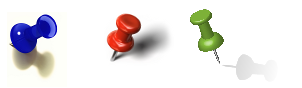
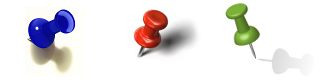
free elements from ccs hard layout

Changed region(s): [[0.0298, 0.1, 0.2384, 0.925], [0.3278, 0.1, 0.596, 0.725], [0.6258, 0.025, 0.894, 0.925]]

diff --git a/flightpin_proj/www/stylesheets/main.css b/flightpin_proj/www/stylesheets/main.css
@@ -56,13 +56,14 @@ table {
 }
 
 
-body { font-family: font-family: 'Droid Sans', sans-serif; font-size: 14pt; text-align: center;
+body { font-family: font-family: 'Droid Sans', sans-serif; font-size: 14pt;
        background-color: #fff;
-       margin-top: 200px;
+       margin-top: 55px;
        width: 100%;
-       margin: 0;
        padding: 0;
      }
+
+/*div { border: 2px solid gray;}*/
 
 /* font styling */
 
@@ -71,10 +72,11 @@ body { font-family: font-family: 'Droid Sans', sans-serif; font-size: 14pt; text
 .onewaylabel {font-family: font-family: 'Droid Sans', sans-serif; font-size: 10pt; text-align: left;}
 
 /* Alignment and Layout*/
-.halves {width: 50%;}
+.halves {width: 600px; height:400px;}
 .one {text-align: right; left:0px; margin-top: 10px; margin-bottom: 5px;}
 
 #mycontainer {width: 100%;}
-#footer {width: 100%;}
-#logo {right:10px;}
-#map_canvas {width: 100%; height: 100%;}
+#footer {width: 100%;clear: both;}
+#pins {margin-top: 20px; position:absolute;}
+#logo { margin-top: 20px; position:absolute;}
+#map_canvas {width: 600px; height: 400px; left:50px;}

diff --git a/flightpin_proj/flightpin.py b/flightpin_proj/flightpin.py
@@ -59,7 +59,7 @@ class MainPage(webapp.RequestHandler):
             });\n''')
     self.response.out.write('</script>\n')
 
-    self.response.out.write('''<script type="text/javascript" src="http://maps.googleapis.com/maps/api/js?sensor=false">
+    self.response.out.write('''<script type="text/javascript" src="http://maps.googleapis.com/maps/api/js?sensor=true">
 </script>\n''')
     self.response.out.write('''
 <script type="text/javascript">
@@ -79,7 +79,7 @@ class MainPage(webapp.RequestHandler):
     self.response.out.write('<link href="www/stylesheets/calendar.css" rel="stylesheet" type="text/css" />\n')
     self.response.out.write('<link href="www/stylesheets/main.css" rel="stylesheet" type="text/css" />\n')
     self.response.out.write('<link href="http://fonts.googleapis.com/css?family=Droid+Sans" rel="stylesheet" type="text/css">\n')
-    self.response.out.write('</head><body onload="initialize()>\n')
+    self.response.out.write('</head><body onload="initialize()">\n')
 
     #greetings = db.GqlQuery("SELECT * "
      #                       "FROM Flight "
@@ -95,18 +95,17 @@ class MainPage(webapp.RequestHandler):
 
 
     self.response.out.write('<div id="mycontainer">\n')
-    self.response.out.write('<div id="lhs" class="halves">\n')
-    self.response.out.write(' <div id="map_canvas">\n')
-    self.response.out.write('</div><!-- map_canvas -->\n')
-    self.response.out.write('Google map\n')
-    self.response.out.write('</div><!-- lhs -->\n')
+    self.response.out.write('  <div id="lhs" class="halves" style="float:left">\n')
+    self.response.out.write('   <div id="map_canvas">\n')
+    self.response.out.write('   </div><!-- map_canvas -->\n')
+    self.response.out.write('  </div><!-- lhs -->\n')
     self.response.out.write('  <div id="rhs" class="halves" style="float: right">\n')
     self.response.out.write('''
           <div id="departdatediv" class="datelabel">Departure date: <br>
             <form>
               <input id="seldate1" class="one" type="text" name="date" value="Select" />
               <input id="onewaycheck" type="checkbox" name="arrangement" selected="" onClick=toggleElementOnCheck('returndatediv',this,'returndate') value="oneway" />
-              <span id="chb1" class="onewaylabel">(one way only)
+              <span id="chb1" class="onewaylabel">(one way flight)
               </span><!-- chb1 -->
             </form>
           </div> <!-- departdatediv -->
@@ -115,12 +114,15 @@ class MainPage(webapp.RequestHandler):
                 <input id="returndate" class="one" type="text" name="date" value="Select" />
               </form>
           </div><!-- returndatediv -->
+          <div id="logo">
+            <img src="www/images/logo.png" alt="FlightPin Logo">
+          </div><!-- logo -->
 \n''')
     self.response.out.write('</div><!-- rhs -->\n')
     self.response.out.write('''
-          <div id="footer" style="float:none">
-            <div id="logo">
-              <img src="www/images/logo.png" alt="FlightPin">
+          <div id="footer">
+            <div id="pins">
+              <img src="www/images/pin_trailers.png" alt="flight pins">
             </div><!-- logo -->
           </div><!-- footer -->\n''')
     self.response.out.write('</div><!-- mycontainer -->\n')
